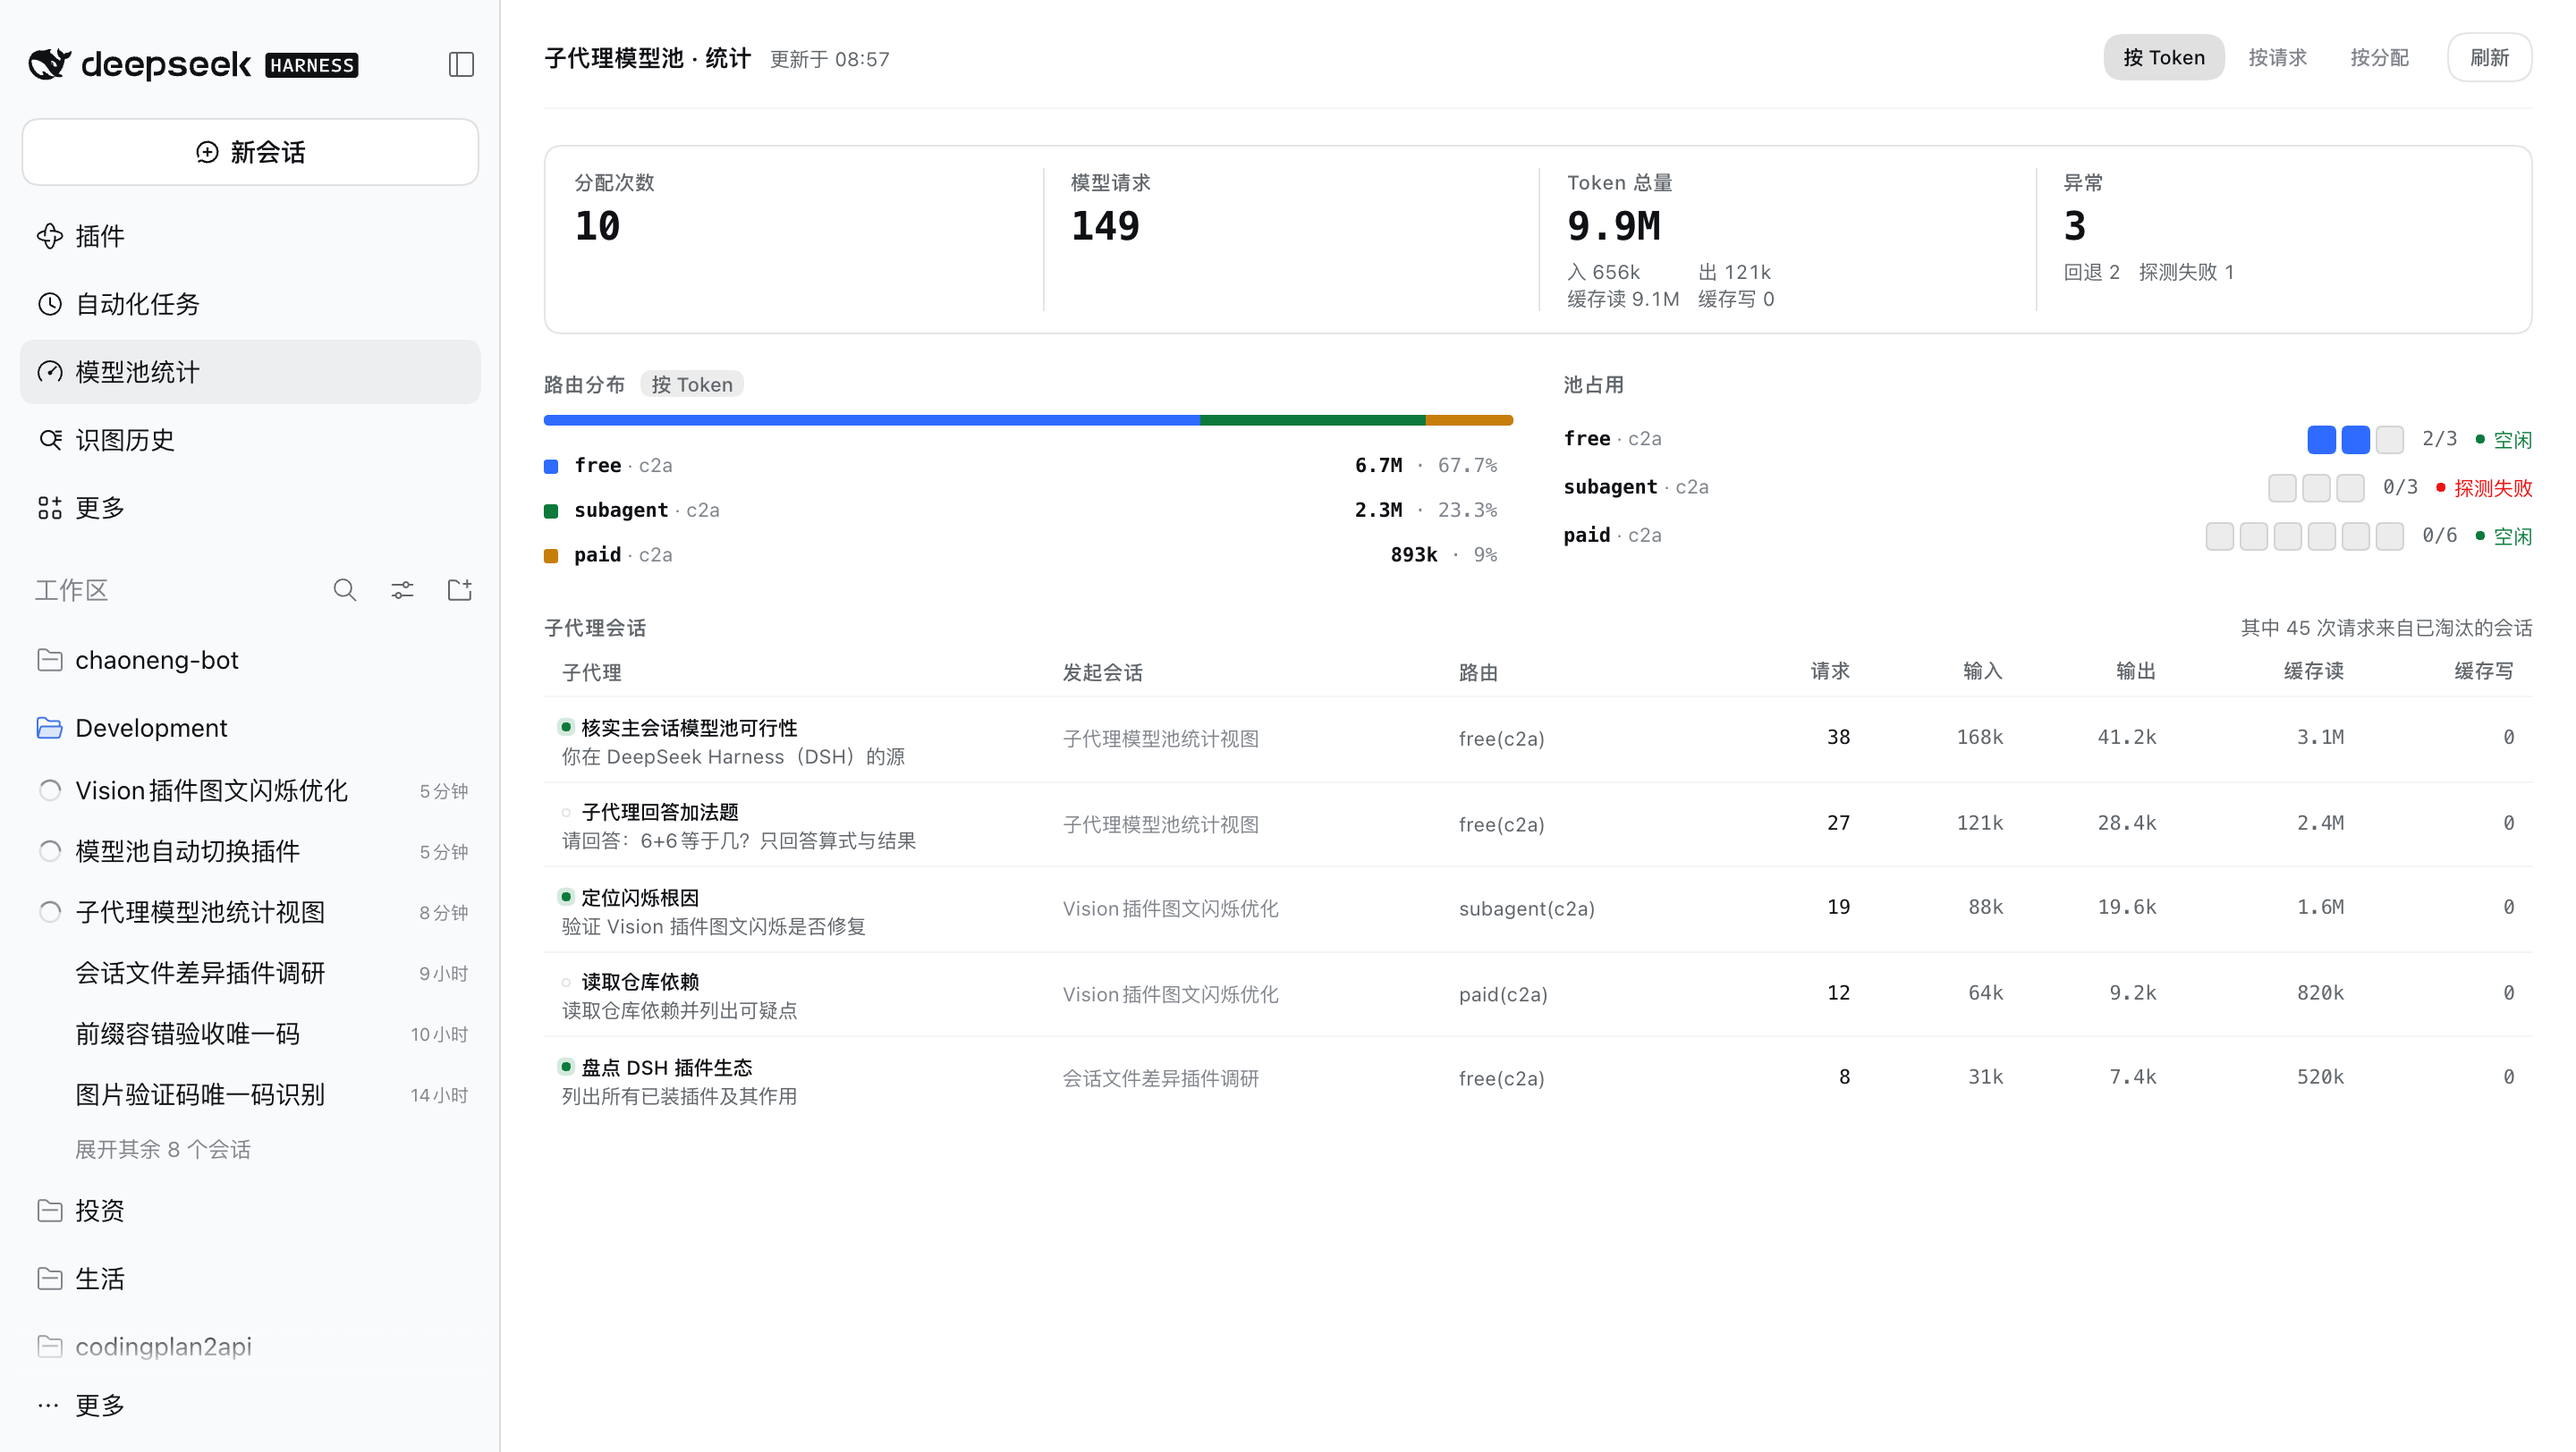
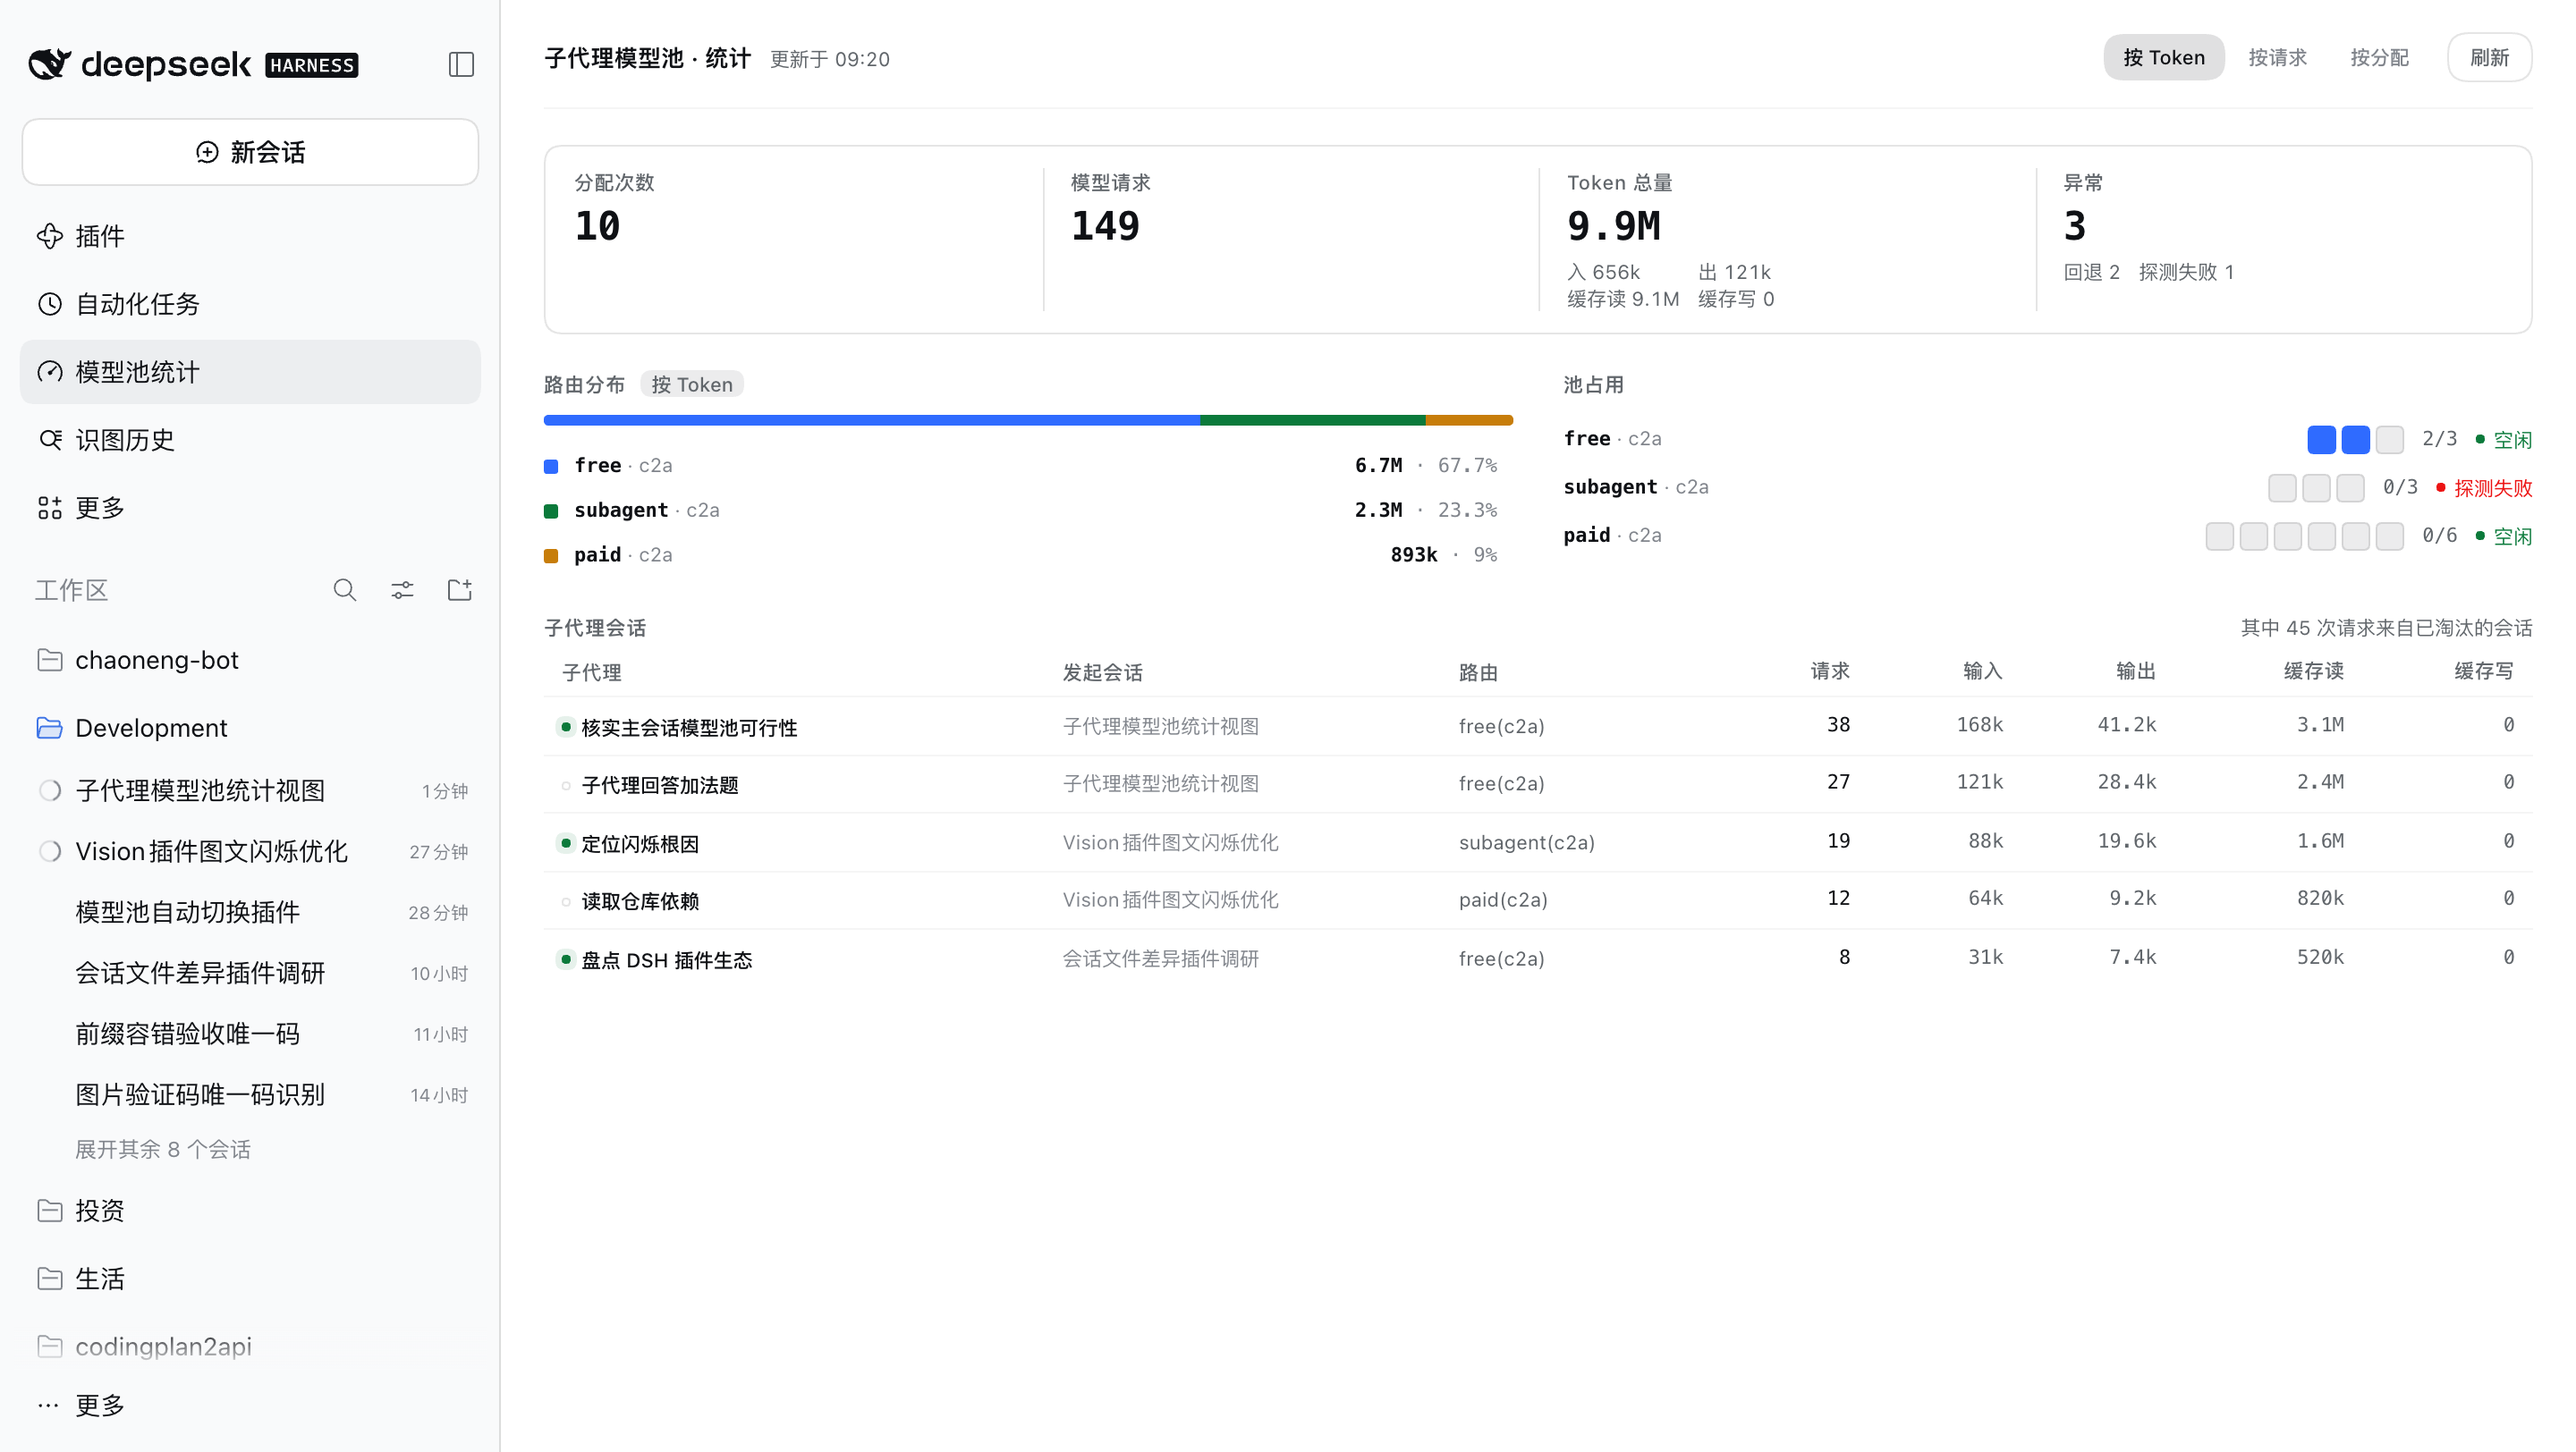
fix: 去掉 name 下面的提示词截断行
那一行是残句（「你在 DeepSeek Harness（DSH）的源」），读不出信息，
却白占一行高度。用户要的是这个子代理在干什么，label 已经答了。

改动：
- 不再渲染 .smpv-sessionSub；完整信息（label · 提示词截断 · sessionId）
  留在 td 的 title 属性里，hover 可见。
- 删掉 .smpv-sessionSub 的死样式。

实测：.smpv-sessionSub 数量 0；行高 45px → 33px（每行省 12px）；
第一格只剩 label「核实主会话模型池可行性」；
title 属性 = 「核实主会话模型池可行性 · 你在 DeepSeek Harness（DSH）的源 · s1」；
桌面 812px 填满不滚动。137 项测试全绿。

diff --git a/client.js b/client.js
@@ -897,7 +897,6 @@
         ".smpv-run.done:before{border:.5px solid var(--dsw-alias-border-l2);background:transparent}",
         "@media (prefers-reduced-motion:no-preference){.smpv-run.running:before{animation:smpv-halo 2.4s ease-in-out infinite}}",
         "@keyframes smpv-halo{0%,100%{box-shadow:0 0 0 2px color-mix(in srgb, var(--smpv-ok) 22%, transparent)}50%{box-shadow:0 0 0 3.5px color-mix(in srgb, var(--smpv-ok) 10%, transparent)}}",
-        ".smpv-sessionSub{display:block;overflow:hidden;text-overflow:ellipsis;white-space:nowrap;font-size:11px;line-height:15px;color:var(--dsw-alias-label-secondary)}",
         ".smpv-num{font-family:var(--dsw-font-mono,ui-monospace,Menlo,monospace);text-align:right;font-size:11px;color:var(--dsw-alias-label-secondary);transition:opacity .14s ease-out}",
         // 请求数是这行最有信息量的数字，给它主字色。
         ".smpv-numLead{color:var(--dsw-alias-label-primary);font-weight:500}",
@@ -1382,12 +1381,8 @@
                                   children: rawTitle
                                 })
                               }),
-                              subTitle === null
-                                ? null
-                                : jsx("span", {
-                                  className: "smpv-sessionSub",
-                                  children: subTitle
-                                })
+                              // 提示词截断不再单独占一行：它是残句，读不出信息，
+                              // 白占一行高度。完整文本留在 td 的 title 里，hover 可见。
                             ]
                           }),
                           jsx("td", {
